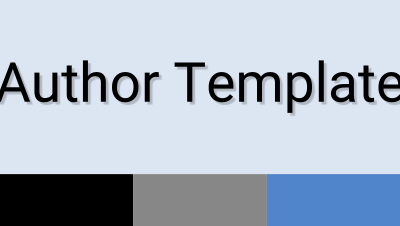
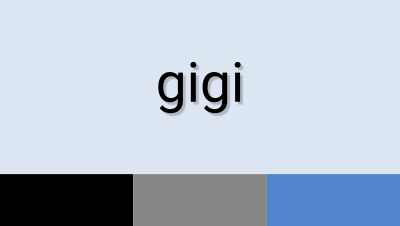
Save template: gigi

Changed region(s): [[0.0, 0.2478, 1.0, 0.5265]]

diff --git a/.contentfusion/templates/gigi/styles.css b/.contentfusion/templates/gigi/styles.css
@@ -77,13 +77,19 @@
 *[class~='topic/link'] {
   color: #5185cb;
 }
+a,
+a:hover,
+a:visited,
 .related-links a,
 .related-links a:visited {
   color: #5185cb;
 }
-a,
-a:hover,
-a:visited {
+.webhelp_full_width_link,
+.webhelp_expand_collapse_sections,
+.wh_hide_highlight,
+.wh_print_link button,
+.oxy-icon-pdf-link,
+.wh-md-menu-button {
   color: #5185cb;
 }
 *[class~='topic/table'] th {
@@ -190,9 +196,6 @@ span.note__title {
 }
 .wh_top_menu ul ul li {
   border-top-color: #000;
-}
-.wh_top_menu ul ul li a:hover {
-  background: #000;
 }
 /*wh-search-component-background-color-dark*/
 .wh_search_input {